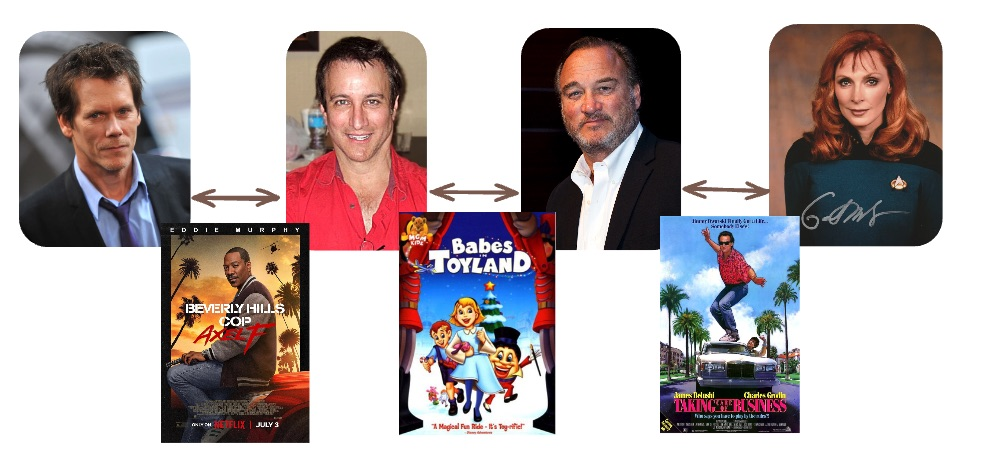
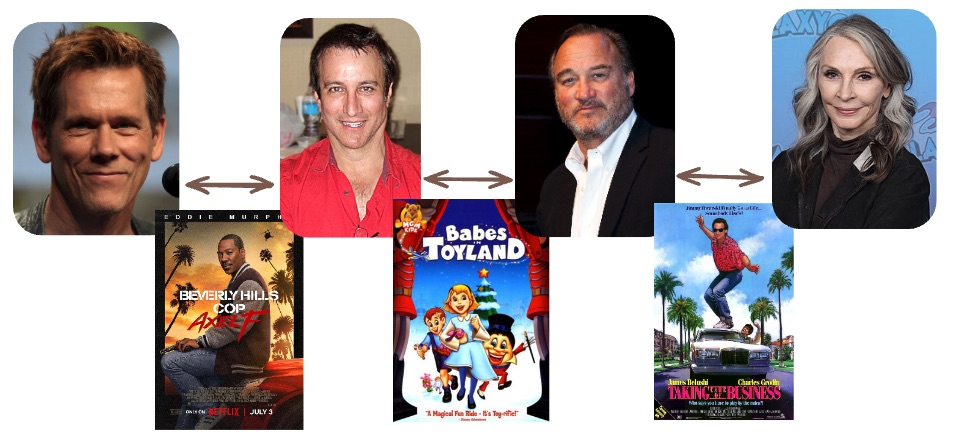
pic cc by sa

diff --git a/bacon/index.md b/bacon/index.md
@@ -435,3 +435,16 @@ SELECT * FROM bacon('Gates McFadden');
 * Graph solving problems do not require special external software, you can attack those problems in PostgreSQL using pgRouting or a custom recursive CTE.
 * pgRouting is good for smaller graphs and especially powerful for graphs that are generated dynamically, to reflect changes in data, or changes in the desired graph.
 * Recursive CTEs can handle much larger graphs, but not large traversals of those graphs, as they tend to pile up very large intermediate results that grow with each recursion.
+
+## Pictures
+
+* Kevin Bacon by [Gage Skidmore](https://www.flickr.com/photos/gageskidmore/14781004366/)
+* Bronson Pinchot by Rob DiCaterino
+* Jim Belushi by COD Newsroom
+* Gates McFadden By [Super Festivals](https://commons.wikimedia.org/w/index.php?curid=130047788)
+* Marissa Tomei by Elena Ternovaja
+* Amanda Seyfried by [Glenn Francis](https://commons.wikimedia.org/wiki/User:Toglenn)
+* Steve Martin by [David W Baker](https://commons.wikimedia.org/w/index.php?curid=137841186)
+* Zendaya by [Glenn Francis](https://commons.wikimedia.org/wiki/User:Toglenn)
+* Timothee Chalamet by [Somewhere In Toronto](https://www.flickr.com/photos/terras/30755014688/)
+
